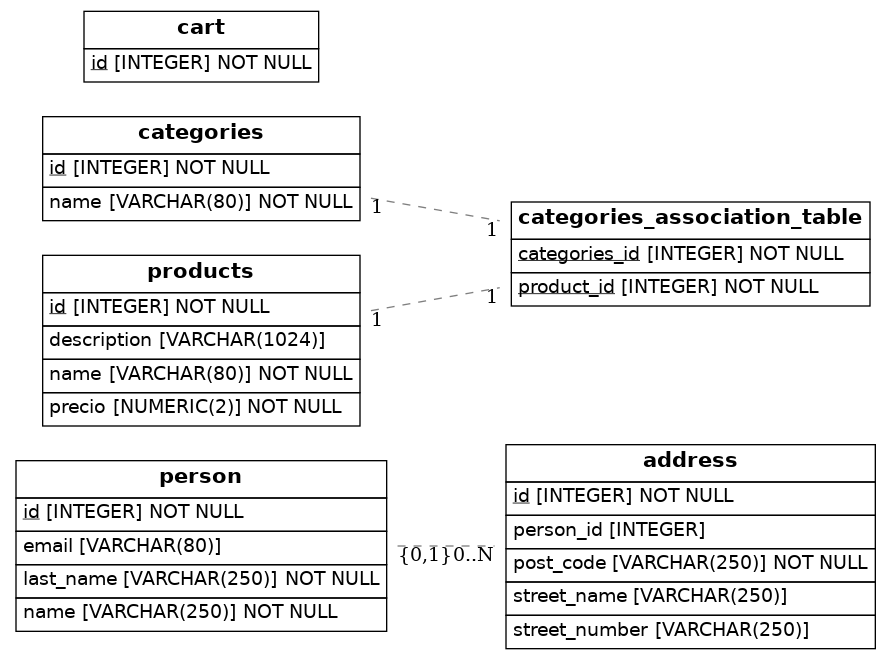
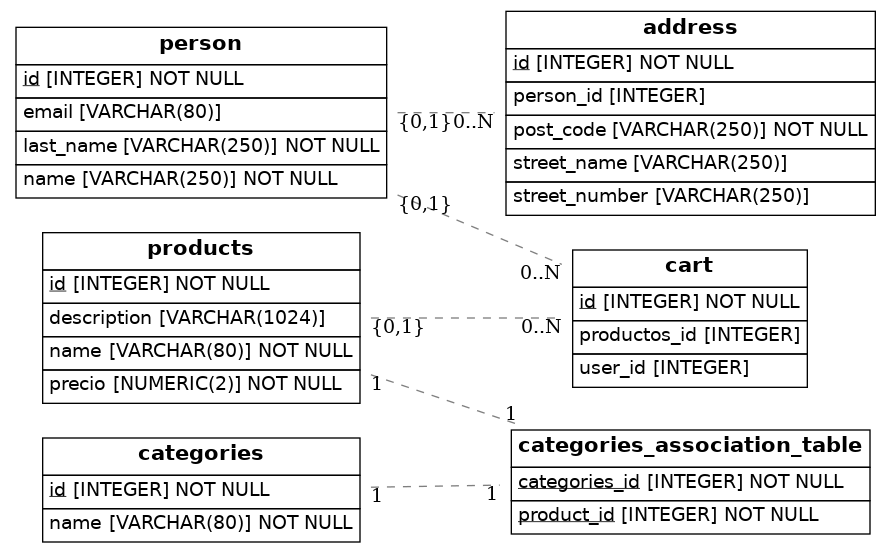
:herb: ShoppingCart generation II

Changed region(s): [[0.0, 0.0, 1.0, 1.0]]

diff --git a/src/models.py b/src/models.py
@@ -60,7 +60,9 @@ class Products(Base):
 class ShoppingCart(Base):
     __tablename__ = 'cart'
     id = Column(Integer, primary_key=True)
+    user_id = Column(Integer, ForeignKey("person.id"))
     user = relationship("Person", backref="carrito")
+    productos_id = Column(Integer, ForeignKey("products.id"))
     productos = relationship("Productos", backref="likes")
 
 
